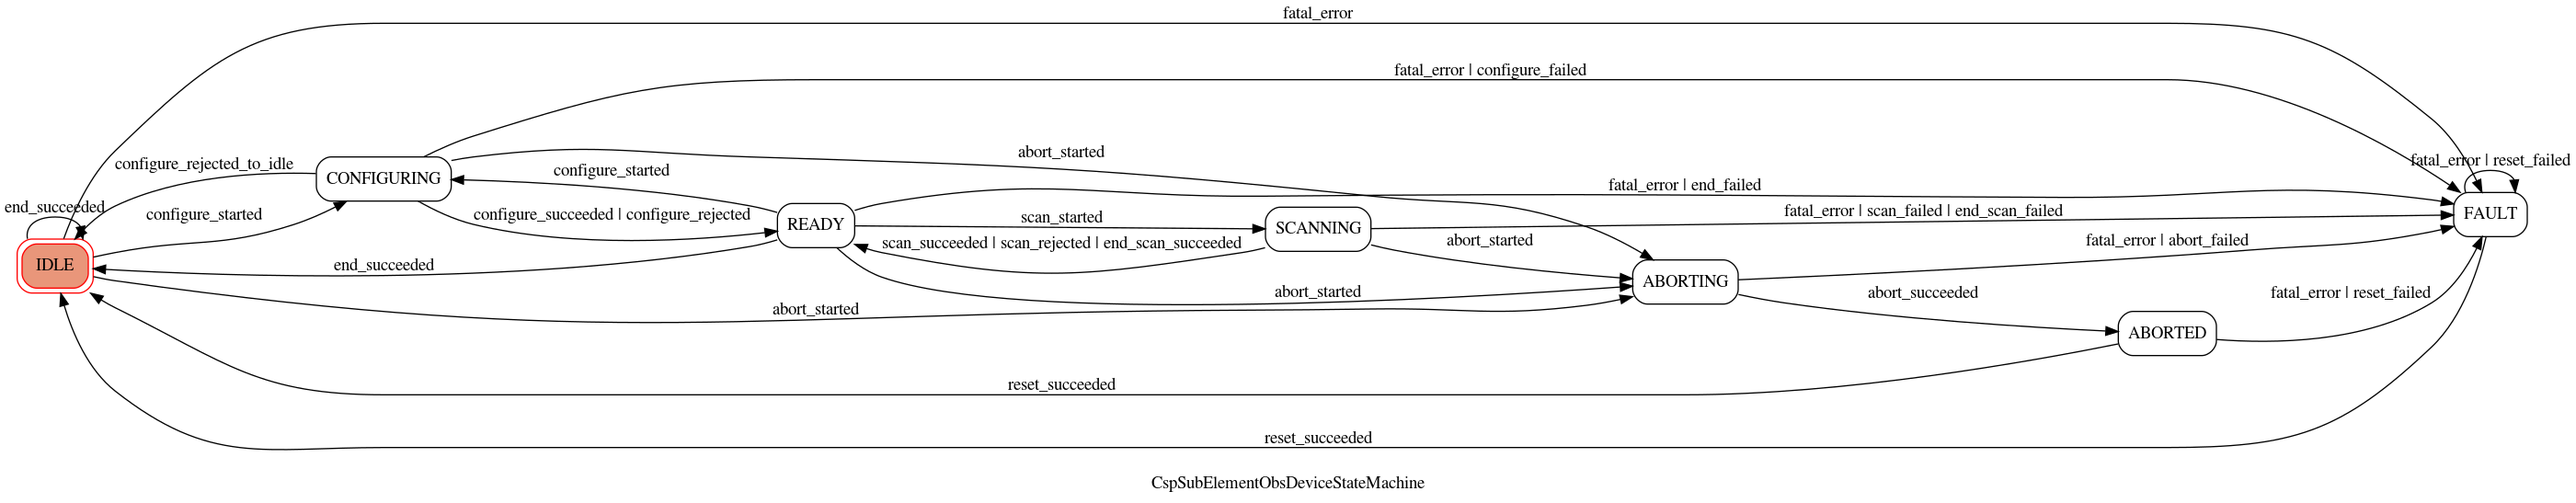
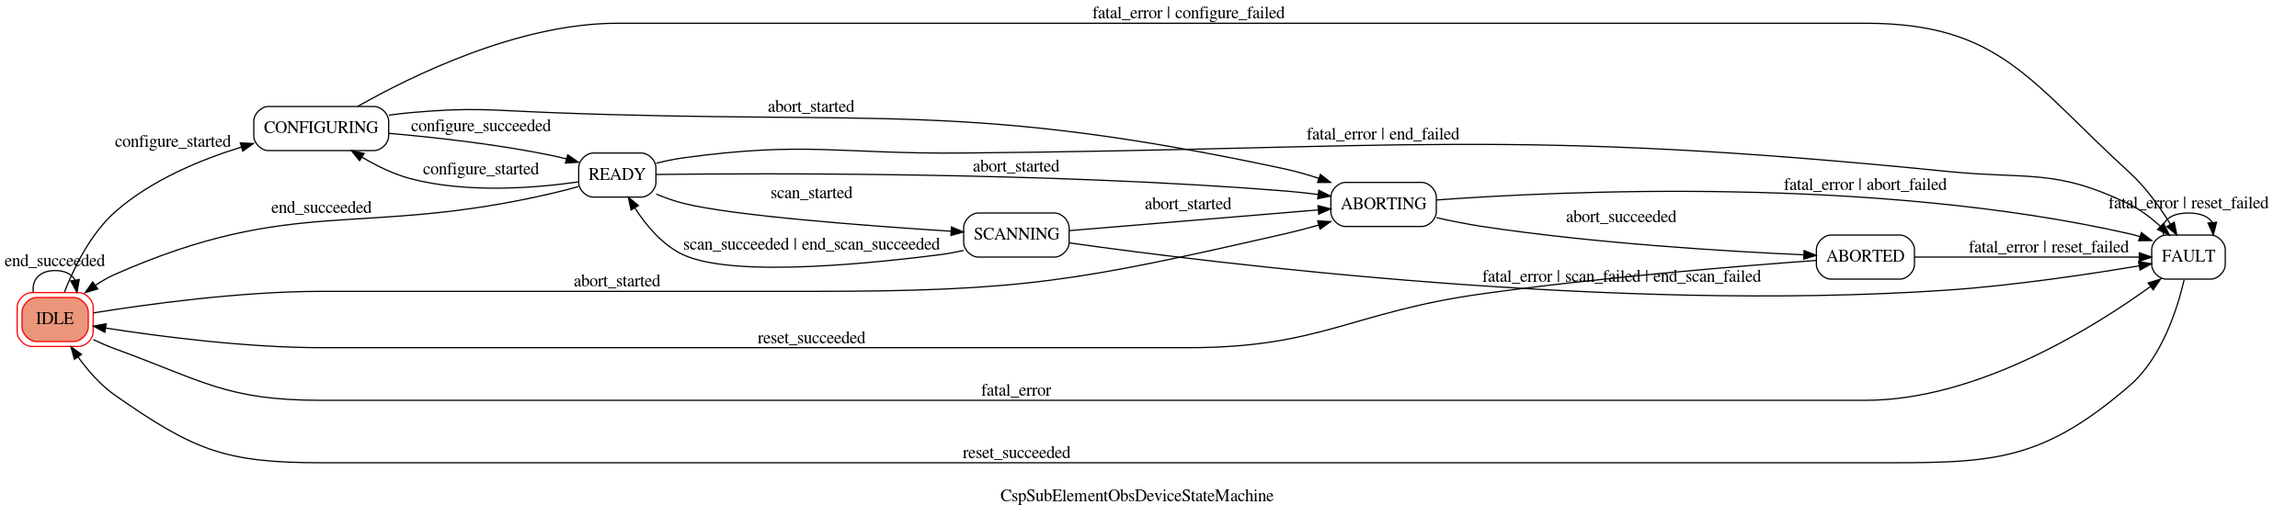
CT-166: Removed reject command. Updated tests and documentation.

diff --git a/tests/test_csp_subelement_obsdevice.py b/tests/test_csp_subelement_obsdevice.py
@@ -39,7 +39,6 @@ def csp_subelement_obsdevice_state_model():
     """
     yield CspSubElementObsDeviceStateModel(logging.getLogger())
 
-
 @pytest.mark.state_machine_tester(load_state_machine_spec("csp_subelement_obsdevice_state_machine"))
 class TestCspSubElementObsDeviceStateModel(ModelStateMachineTester):
     """
@@ -244,39 +243,19 @@ class TestCspSubElementObsDevice(object):
         assert "Error executing command ConfigureScanCommand" in str(df.value.args[0].desc)
         # PROTECTED REGION END #    //  CspSubelementObsDevice.test_ConfigureScan_when_in_wrong_state
 
-    # PROTECTED REGION ID(CspSubelementObsDevice.test_ConfigureScan_with_wrong_input_args_when_idle_decorators) ENABLED START #
-    # PROTECTED REGION END #    //  CspSubelementObsDevice.test_ConfigureScan_with_wrong_input_args_when_idle_decorators
-    def test_ConfigureScan_with_wrong_input_args_when_idle(self, tango_context):
+    # PROTECTED REGION ID(CspSubelementObsDevice.test_ConfigureScan_with_wrong_input_args_decorators) ENABLED START #
+    # PROTECTED REGION END #    //  CspSubelementObsDevice.test_ConfigureScan_with_wrong_input_args_decorators
+    def test_ConfigureScan_with_wrong_input_args(self, tango_context):
         """Test for ConfigureScan when input argument specifies a wrong json configuration
            and the device is in IDLE state.
         """
         # PROTECTED REGION ID(CspSubelementObsDevice.test_ConfigureScan_with_wrong_input_args_when_idle) ENABLED START #
         tango_context.device.On()
-        init_obs_state = tango_context.device.obsState
         # wrong configurationID key
         wrong_configuration = '{"subid":"sbi-mvp01-20200325-00002"}'
-        with pytest.raises(DevFailed) as df:
-            tango_context.device.ConfigureScan(wrong_configuration)
-        assert tango_context.device.obsState == init_obs_state
-        # PROTECTED REGION END #    //  CspSubelementObsDevice.test_ConfigureScan_with_wrong_input_args_when_idle
-
-    # PROTECTED REGION ID(CspSubelementObsDevice.test_ConfigureScan_with_wrong_input_args_when_ready_decorators) ENABLED START #
-    # PROTECTED REGION END #    //  CspSubelementObsDevice.test_ConfigureScan_with_wrong_configId_key_decorators
-    def test_ConfigureScan_with_wrong_input_args_when_ready(self, tango_context):
-        """Test for ConfigureScan when json configuration specifies a wrong data and the device is
-           in ON/READY state.
-        """
-        # PROTECTED REGION ID(CspSubelementObsDevice.test_ConfigureScan_with_wrong_input_args_when_ready) ENABLED START #
-        tango_context.device.On()
-        # wrong configurationID key
-        valid_configuration = '{"id":"sbi-mvp01-20200325-00002"}'
-        tango_context.device.ConfigureScan(valid_configuration)
-        current_obs_state = tango_context.device.obsState
-        wrong_configuration = '{"subid":"sbi-mvp01-20200325-00002"}'
-        with pytest.raises(DevFailed) as df:
-            tango_context.device.ConfigureScan(wrong_configuration)
-        assert tango_context.device.obsState == current_obs_state
-        # PROTECTED REGION END #    //  CspSubelementObsDevice.test_ConfigureScan_with_wrong_input_args_when_ready
+        tango_context.device.ConfigureScan(wrong_configuration)
+        assert tango_context.device.obsState == ObsState.FAULT
+        # PROTECTED REGION END #    //  CspSubelementObsDevice.test_ConfigureScan_with_wrong_input_args
 
     # PROTECTED REGION ID(CspSubelementObsDevice.test_ConfigureScan_with_json_syntax_error) ENABLED START #
     # PROTECTED REGION END #    //  CspSubelementObsDevice.test_ConfigureScan_with_json_syntax_error_decorators
@@ -284,11 +263,8 @@ class TestCspSubElementObsDevice(object):
         """Test for ConfigureScan when syntax error in json configuration """
         # PROTECTED REGION ID(CspSubelementObsDevice.test_ConfigureScan_with_json_syntax_error) ENABLED START #
         tango_context.device.On()
-        init_obs_state = tango_context.device.obsState
-        with pytest.raises(DevFailed) as df:
-            tango_context.device.ConfigureScan('{"foo": 1,}')
-        assert tango_context.device.obsState == init_obs_state
-        assert tango_context.device.obsState != ObsState.FAULT
+        tango_context.device.ConfigureScan('{"foo": 1,}')
+        assert tango_context.device.obsState == ObsState.FAULT
         # PROTECTED REGION END #    //  CspSubelementObsDevice.test_ConfigureScan_with_json_syntax_error
 
     # PROTECTED REGION ID(CspSubelementObsDevice.test_GoToIdle_decorators) ENABLED START #
@@ -350,10 +326,8 @@ class TestCspSubElementObsDevice(object):
         # Set the device in ON/IDLE state
         tango_context.device.On()
         tango_context.device.ConfigureScan('{"id":"sbi-mvp01-20200325-00002"}')
-        current_obs_state = tango_context.device.obsState
-        with pytest.raises(DevFailed) as df:
-            tango_context.device.Scan('abc')
-        assert tango_context.device.obsState == current_obs_state
+        tango_context.device.Scan('abc')
+        assert tango_context.device.obsState == ObsState.FAULT
         # PROTECTED REGION END #    //  CspSubelementObsDevice.test_Scan_with_wrong_argument
 
     # PROTECTED REGION ID(CspSubelementObsDevice.test_EndScan_decorators) ENABLED START #

diff --git a/src/ska/base/csp_subelement_obsdevice.py b/src/ska/base/csp_subelement_obsdevice.py
@@ -22,7 +22,6 @@ from tango.server import run, attribute, command, device_property
 # SKA specific imports
 from ska.base import SKAObsDevice, ObsDeviceStateModel
 from ska.base.commands import ResultCode, ActionCommand
-from ska.base.csp_commands import  InputValidatedCommand
 from ska.base.control_model import ObsState
 from ska.base.faults import CommandError
 from ska.base.csp_subelement_state_machine import CspSubElementObsDeviceStateMachine
@@ -63,11 +62,8 @@ class CspSubElementObsDeviceStateModel(ObsDeviceStateModel):
             "configure_started": ("configure_started", None),
             "configure_succeeded": ("configure_succeeded", None),
             "configure_failed": ("configure_failed", None),
-            "configure_rejected_to_idle": ("configure_rejected_to_idle", None),
-            "configure_rejected": ("configure_rejected", None),
             "scan_started": ("scan_started", None),
             "scan_succeeded": ("scan_succeeded", None),
-            "scan_rejected": ("scan_rejected", None),
             "scan_failed": ("scan_failed", None),
             "end_scan_succeeded": ("end_scan_succeeded", None),
             "end_scan_failed": ("end_scan_failed", None),
@@ -314,7 +310,7 @@ class CspSubElementObsDevice(SKAObsDevice):
     # --------
     
     
-    class ConfigureScanCommand(InputValidatedCommand):
+    class ConfigureScanCommand(ActionCommand):
         """
         A class for the CspSubElementObsDevices's ConfigureScan command.
         """
@@ -353,25 +349,22 @@ class CspSubElementObsDevice(SKAObsDevice):
             :raises: ``CommandError`` if the configuration data validation fails. 
             """
             device = self.target
-            # store the configuration on command success
-            device._last_scan_configuration = argin
-            return (ResultCode.OK, "Configure command completed OK")
+            # validate the input args
+            (result_code, msg) = self.validate_input(argin)
+            if result_code == ResultCode.OK:
+                # store the configuration on command success
+                device._last_scan_configuration = argin
+                msg = "Configure command completed OK"
+            return(result_code, msg)
 
         def validate_input(self, argin):
             """
             Validate the configuration parameters against allowed values, as needed.
-            The developer is free to return a FAULT code or raise an exception taking into
-            account that in the first case the observing state of the device transits
-            to FAULT while in the second case it is restored the observing state of the device
-            as it was before the command was invoked.
 
             :param argin: The JSON formatted string with configuration for the device.
             :type argin: 'DevString'
             :return: A tuple containing a return code and a string message. 
             :rtype: (ResultCode, str)
-            :raises: ``CommandError`` exception when wrong type or range values are specified for
-                the configuration data. In this case the device restores the observing
-                state before command was invoked.
             """
             device = self.target
             try: 
@@ -385,9 +378,9 @@ class CspSubElementObsDevice(SKAObsDevice):
             except Exception as other_errs:
                 msg = "Validate configuration failed with unknown error:{}".format(other_errs)
                 self.logger.error(msg)
-            raise CommandError(msg)
+            return (ResultCode.FAILED, msg)
 
-    class ScanCommand(InputValidatedCommand):
+    class ScanCommand(ActionCommand):
         """
         A class for the CspSubElementObsDevices's Scan command.
         """
@@ -425,8 +418,12 @@ class CspSubElementObsDevice(SKAObsDevice):
             :rtype: (ResultCode, str)
             """
             device = self.target
-            device._scan_id = int(argin)
-            return (ResultCode.STARTED, "Scan command started")
+            (result_code, msg) = self.validate_input(argin)
+            if result_code == ResultCode.OK:
+                # store the configuration on command success
+                device._scan_id = int(argin)
+                return (ResultCode.STARTED, "Scan command started")
+            return(result_code, msg)
 
         def validate_input(self, argin):
             """
@@ -438,13 +435,11 @@ class CspSubElementObsDevice(SKAObsDevice):
                 message indicating status. The message is for
                 information purpose only.
             :rtype: (ResultCode, str)
-            :raises: ``CommandError`` exception when wrong type or value arguments
-                are specified.
             """
             if not argin.isdigit():
                 msg = f"Input argument '{argin}' is not an integer" 
                 self.logger.error(msg)
-                raise CommandError(msg)
+                return (ResultCode.FAILED, msg)
             return (ResultCode.OK, "Scan arguments validation successfull")
         
     class EndScanCommand(ActionCommand):

diff --git a/src/ska/base/csp_subelement_state_machine.py b/src/ska/base/csp_subelement_state_machine.py
@@ -55,16 +55,6 @@ class CspSubElementObsDeviceStateMachine(Machine):
                 "dest": "FAULT",
             },
             {
-                "source": "CONFIGURING",
-                "trigger": "configure_rejected",
-                "dest": "READY",
-            },
-            {
-                "source": "CONFIGURING",
-                "trigger": "configure_rejected_to_idle",
-                "dest": "IDLE",
-            },
-            {
                 "source": "READY",
                 "trigger": "end_succeeded",
                 "dest": "IDLE",
@@ -87,11 +77,6 @@ class CspSubElementObsDeviceStateMachine(Machine):
             {
                 "source": "SCANNING",
                 "trigger": "scan_succeeded",
-                "dest": "READY",
-            },
-            {
-                "source": "SCANNING",
-                "trigger": "scan_rejected",
                 "dest": "READY",
             },
             {

diff --git a/docs/source/CspSubElementObsDevice.rst b/docs/source/CspSubElementObsDevice.rst
@@ -3,6 +3,10 @@
    You can adapt this file completely to your liking, but it should at least
    contain the root `toctree` directive.
 
+.. |br| raw:: html
+
+   <br />
+
 SKA CSP Sub-element ObsDevice
 ============================================
 
@@ -13,3 +17,48 @@ SKA CSP Sub-element ObsDevice
 .. autoclass:: ska.base.CspSubElementObsDevice
    :members:
    :undoc-members:
+
+
+Instance attributes
+-------------------
+Here it is reported the list of the *instance attributes*. |br|
+
+* ``scan_id``: the identification number of the scan. |br|
+  The scan ID is passed as argument of the *Scan* command. |br|
+  The attribute value is reported via TANGO attribute *scanID*.
+
+* ``_sdp_addresses``: a python dictionary with the SDP destination addresses for the output 
+  products. |br|
+  Depending on the sub-element (CBF, PSS, PST) this attribute can specify more than one destination address, 
+  as for example in CBF sub-element. |br|
+  The SDP destination addresses are specified at configuration.
+  An SDP address specifies the MAC address, IP address and port of the endpoint. |br|
+  Below an example of how SDP addresses are specified in a Mid CBF configuration::
+
+        {
+          ...
+          "outputHost": [[0, "192.168.0.1"], [8184, "192.168.0.2"]],
+          "outputMac": [[0, "06-00-00-00-00-01"]],
+          "outputPort": [[0, 9000, 1], [8184, 9000, 1]]
+          ...
+        }
+
+  The value of this attribute is reported via the TANGO *sdpDestionationAddresses* attribute.
+  
+  .. note::  Not all the Sub-element observing devices are connected to the SDP (for example Mid VCCs).
+
+
+* ``_sdp_links_active``: a python list of boolean. Each list element reports the network connectivity of the
+  corresponding link to SDP.
+
+* ``_sdp_links_capacity``: this attribute records the capacity in GB/s of the SDP link.
+
+* ``_config_id``: it stores the unique identificator associated to a JSON scan configuration. |br| 
+  The value of this attribute is reported via the TANGO attriute *configID*.
+
+* ``_last_scan_configuration``: this attribute stores the last configuration successully programmed. |br|
+  The value is reported via the TANGO attribute *lastScanConfiguration*.
+
+
+* ``_health_failure_msg``: 
+  The value is reported via the TANGO attribute *healthFailureMesssage*.
